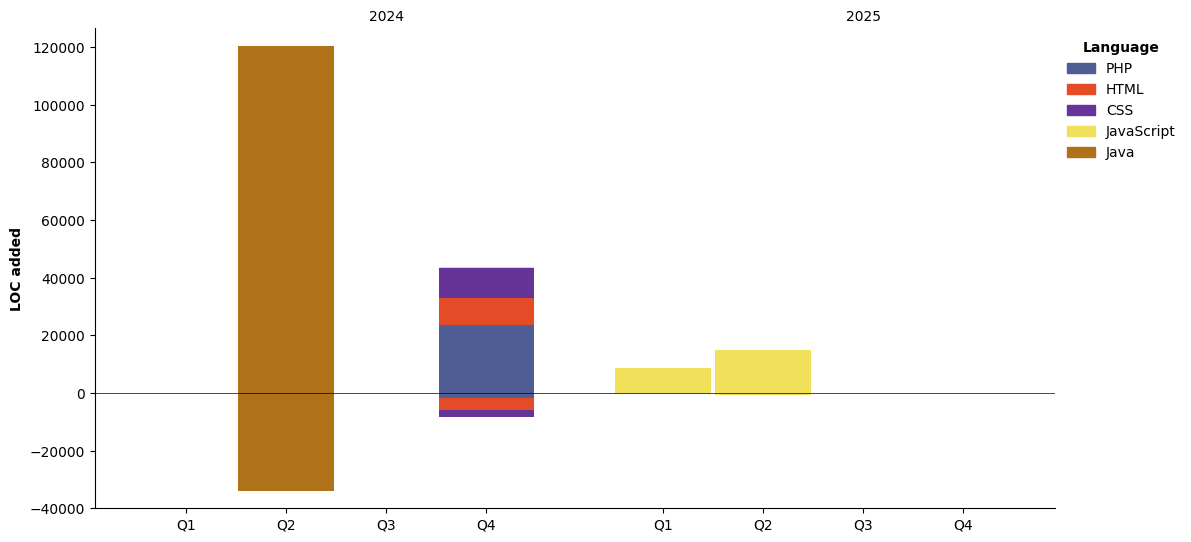
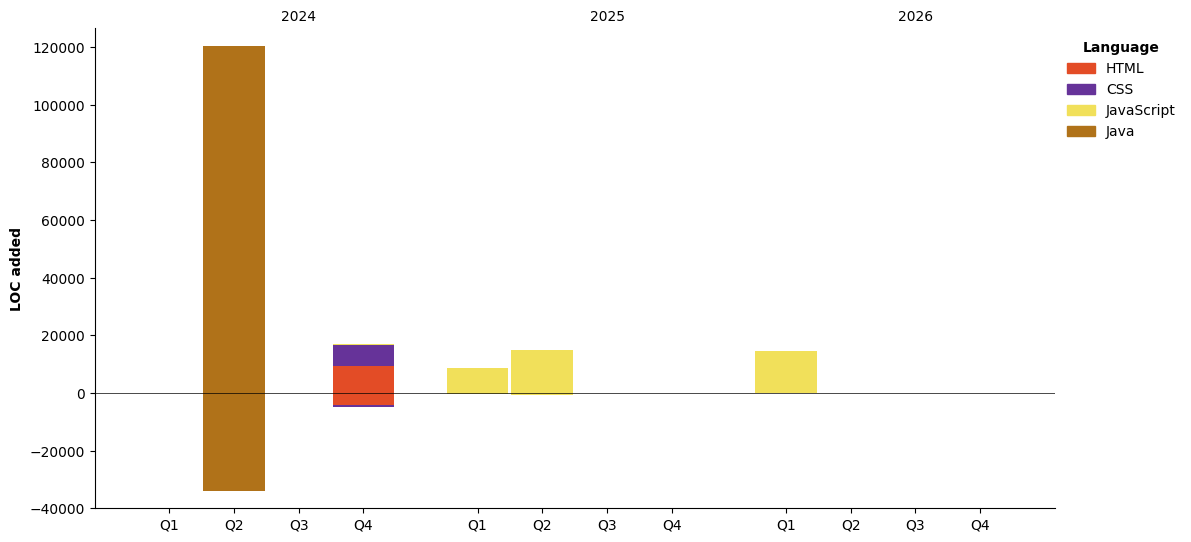
Updated with Dev Metrics

diff --git a/README.md b/README.md
@@ -24,11 +24,57 @@ I'm a Software Engineering student passionate about bringing interactive ideas t
 <p align="left"> <a href="https://www.blender.org/" target="_blank" rel="noreferrer"> <img src="https://download.blender.org/branding/community/blender_community_badge_white.svg" alt="blender" width="40" height="40"/> </a> <a href="https://www.w3schools.com/cs/" target="_blank" rel="noreferrer"> <img src="https://raw.githubusercontent.com/devicons/devicon/master/icons/csharp/csharp-original.svg" alt="csharp" width="40" height="40"/> </a> <a href="https://www.w3schools.com/css/" target="_blank" rel="noreferrer"> <img src="https://raw.githubusercontent.com/devicons/devicon/master/icons/css3/css3-original-wordmark.svg" alt="css3" width="40" height="40"/> </a> <a href="https://dotnet.microsoft.com/" target="_blank" rel="noreferrer"> <img src="https://raw.githubusercontent.com/devicons/devicon/master/icons/dot-net/dot-net-original-wordmark.svg" alt="dotnet" width="40" height="40"/> </a> <a href="https://www.figma.com/" target="_blank" rel="noreferrer"> <img src="https://www.vectorlogo.zone/logos/figma/figma-icon.svg" alt="figma" width="40" height="40"/> </a> <a href="https://git-scm.com/" target="_blank" rel="noreferrer"> <img src="https://www.vectorlogo.zone/logos/git-scm/git-scm-icon.svg" alt="git" width="40" height="40"/> </a> <a href="https://www.w3.org/html/" target="_blank" rel="noreferrer"> <img src="https://raw.githubusercontent.com/devicons/devicon/master/icons/html5/html5-original-wordmark.svg" alt="html5" width="40" height="40"/> </a> <a href="https://developer.mozilla.org/en-US/docs/Web/JavaScript" target="_blank" rel="noreferrer"> <img src="https://raw.githubusercontent.com/devicons/devicon/master/icons/javascript/javascript-original.svg" alt="javascript" width="40" height="40"/> </a> <a href="https://www.photoshop.com/en" target="_blank" rel="noreferrer"> <img src="https://raw.githubusercontent.com/devicons/devicon/master/icons/photoshop/photoshop-line.svg" alt="photoshop" width="40" height="40"/> </a> <a href="https://reactjs.org/" target="_blank" rel="noreferrer"> <img src="https://raw.githubusercontent.com/devicons/devicon/master/icons/react/react-original-wordmark.svg" alt="react" width="40" height="40"/> </a> <a href="https://tailwindcss.com/" target="_blank" rel="noreferrer"> <img src="https://www.vectorlogo.zone/logos/tailwindcss/tailwindcss-icon.svg" alt="tailwind" width="40" height="40"/> </a> <a href="https://unity.com/" target="_blank" rel="noreferrer"> <img src="https://www.vectorlogo.zone/logos/unity3d/unity3d-icon.svg" alt="unity" width="40" height="40"/> </a> </p>
 
  <!--START_SECTION:waka-->
+![Code Time](http://img.shields.io/badge/Code%20Time-52%20hrs%2047%20mins-blue?style=flat)
 
-```txt
-C#              6 hrs 45 mins         ████████████████████████▒   97.40 %
-Unity3D Asset   10 mins               ▓░░░░░░░░░░░░░░░░░░░░░░░░   02.57 %
-Other           0 secs                ░░░░░░░░░░░░░░░░░░░░░░░░░   00.03 %
+**🐱 My GitHub Data** 
+
+> 📦 ? Used in GitHub's Storage 
+ > 
+> 🏆 15 Contributions in the Year 2026
+ > 
+> 🚫 Not Opted to Hire
+ > 
+> 📜 25 Public Repositories 
+ > 
+> 🔑 0 Private Repositories 
+ > 
+**I'm a Night 🦉** 
+
+```text
+🌞 Morning                5 commits           ░░░░░░░░░░░░░░░░░░░░░░░░░   00.55 % 
+🌆 Daytime                406 commits         ███████████░░░░░░░░░░░░░░   44.27 % 
+🌃 Evening                347 commits         █████████░░░░░░░░░░░░░░░░   37.84 % 
+🌙 Night                  159 commits         ████░░░░░░░░░░░░░░░░░░░░░   17.34 % 
+```
+📅 **I'm Most Productive on Saturday** 
+
+```text
+Monday                   104 commits         ███░░░░░░░░░░░░░░░░░░░░░░   11.34 % 
+Tuesday                  110 commits         ███░░░░░░░░░░░░░░░░░░░░░░   12.00 % 
+Wednesday                96 commits          ███░░░░░░░░░░░░░░░░░░░░░░   10.47 % 
+Thursday                 25 commits          █░░░░░░░░░░░░░░░░░░░░░░░░   02.73 % 
+Friday                   76 commits          ██░░░░░░░░░░░░░░░░░░░░░░░   08.29 % 
+Saturday                 345 commits         █████████░░░░░░░░░░░░░░░░   37.62 % 
+Sunday                   161 commits         ████░░░░░░░░░░░░░░░░░░░░░   17.56 % 
 ```
 
+
+📊 **This Week I Spent My Time On** 
+
+```text
+💬 Programming Languages: 
+C#                       6 hrs 45 mins       ████████████████████████░   97.40 % 
+Unity3D Asset            10 mins             █░░░░░░░░░░░░░░░░░░░░░░░░   02.57 % 
+Other                    0 secs              ░░░░░░░░░░░░░░░░░░░░░░░░░   00.03 % 
+
+🔥 Editors: 
+VS Code                  6 hrs 56 mins       █████████████████████████   100.00 % 
+```
+
+**Timeline**
+
+![Lines of Code chart](https://raw.githubusercontent.com/for-tuana/for-tuana/main/assets/bar_graph.png)
+
+
+ Last Updated on 29/03/2026 01:23:54 UTC
 <!--END_SECTION:waka-->
